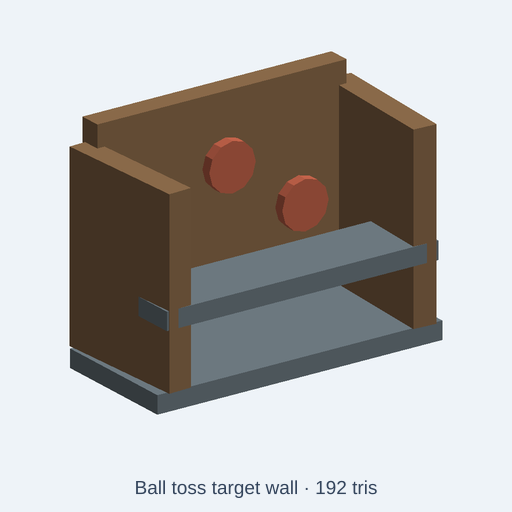
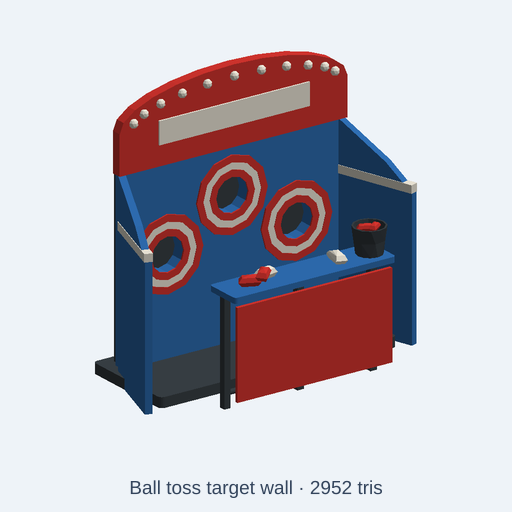
wip(assets): round 18 [claude]
Auto-committed by run-codex-lane.sh so a dying loop can never lose work
again. Squash or amend before review.

diff --git a/catalog/kits/amusement-park/balloon-dart-gallery.kcad.ts b/catalog/kits/amusement-park/balloon-dart-gallery.kcad.ts
@@ -1,69 +1,122 @@
-// Balloon dart gallery: Counter-height dart game with a pegged balloon wall, side dividers, and an overhead net frame.
+// SPDX-License-Identifier: CC0-1.0
+// Balloon dart gallery: the midway booth where you throw darts to pop
+// balloons pinned to a cork wall.
+// What makes it a balloon dart game rather than a counter: a cork back wall
+// covered in a grid of inflated balloons, with darts already stuck in the
+// cork between them; a striped throw counter holding a cup of darts; plush
+// prizes hanging along the side walls; and a sloped striped canopy with a
+// pennant valance.
+// Generic visualization geometry at about real size (2.3 m wide, 2.5 m to
+// the canopy), millimetres, Z up, guest face on -Y, standing on z = 0.
 meta({
   name: "balloon-dart-gallery",
   license: "CC0-1.0",
   title: "Balloon dart gallery",
-  description: "Counter-height dart game with a pegged balloon wall, side dividers, and an overhead net frame. Controls: overall scale, paintedTimber, steel, rubber; festival and twilight material presets.",
-  tags: ["amusement park", "theme park", "guest experience", "low poly", "CC0", "midway games"],
+  description: "Midway balloon dart booth at about real size: a cork back wall covered in a five-by-four grid of balloons with darts stuck in the cork, a striped throw counter with a cup of darts, plush prizes hanging on the side walls, and a sloped striped canopy with a pennant valance. Material controls: painted timber, cork, balloon latex, canvas. Festival, twilight and pastel presets.",
+  tags: ["balloon dart", "dart game", "balloon pop", "carnival booth", "midway game", "prize booth", "amusement park", "theme park", "guest experience", "low poly", "CC0", "midway games"],
   kit: "amusement-park",
   category: "prop",
   origin: "base",
   compat: ["amusement-park", "theme-park", "midway", "visitor-attraction"],
-  triangleBudget: 1800,
+  triangleBudget: 9000,
 });
 
 const scale = param("scale", 1, { label: "Overall scale", min: 0.65, max: 1.35, step: 0.05 });
-const paintedTimber = param("paintedTimber", "#92704e", { label: "Painted timber" });
-const steel = param("steel", "#738087", { label: "Painted steel" });
-const rubber = param("rubber", "#292f33", { label: "Rubber" });
+const timber = param("timber", "#7a3f8f", { label: "Painted timber booth and counter" });
+const cork = param("cork", "#b98a5a", { label: "Cork back wall" });
+const latex = param("latex", "#e23b3b", { label: "Balloon latex, canopy stripe and prizes" });
+const canvas = param("canvas", "#fbf4e2", { label: "Canvas stripe, light balloons and dart flights" });
 
 presets({
-  festival: {
-    "paintedTimber": "#be8a4e",
-    "steel": "#9da3a0",
-    "rubber": "#3c4245"
-},
-  twilight: {
-    "paintedTimber": "#5e7181",
-    "steel": "#4f626c",
-    "rubber": "#20262a"
-},
+  festival: { timber: "#1f7fc4", cork: "#c49a64", latex: "#f2b51c", canvas: "#fffdf4" },
+  twilight: { timber: "#2b2f55", cork: "#8a6a4c", latex: "#d1468c", canvas: "#d9e4f5" },
+  pastel: { timber: "#8fc9c2", cork: "#d6b88f", latex: "#f29bb5", canvas: "#fff7e0" },
 });
-const originOffsetMm = 0;
+
 const p = assembly("balloon-dart-gallery");
+const add = (name: string, shape: Shape) => p.part(name, shape.scale(scale));
 
-const place = (name: string, shape: Shape, at: [number, number, number]) => {
-  const positioned = shape.translate(at[0], at[1], at[2] + originOffsetMm).scale(scale);
-  if (["backboard", "balloon-0", "balloon-1", "balloon-2", "balloon-3", "balloon-4", "balloon-5", "balloon-6", "balloon-7", "counter", "side-divider-0", "side-divider-1"].includes(name)) p.part(name, positioned.color(paintedTimber));
-  else if (["net-header"].includes(name)) p.part(name, positioned.color(rubber));
-  else if (["net-post-0", "net-post-1", "net-post-2", "net-post-3"].includes(name)) p.part(name, positioned.color(steel));
-  else p.part(name, positioned.color(paintedTimber));
+const rr = (l: number, w: number, r: number) =>
+  filletPolygon([[-l / 2, -w / 2], [l / 2, -w / 2], [l / 2, w / 2], [-l / 2, w / 2]], r, { segments: 6 });
+const plan = (pts, z0: number, h: number) => extrudePolygon(pts, h).translate(0, 0, z0);
+// Outline drawn in (x, z) and extruded t thick toward +Y from y0.
+const face = (pts, t: number, y0: number) => extrudePolygon(pts, t).rotateX(90).translate(0, y0 + t, 0);
+// Outline drawn in (y, z) and extruded t thick along X, centred on x = 0.
+const profileYZ = (pts, t: number) => extrudePolygon(pts, t).rotateX(90).translate(0, t / 2, 0).rotateZ(90);
+const turned = (pts) => {
+  let pb = path().moveTo(pts[0][0], pts[0][1]);
+  for (const [r, z] of pts.slice(1)) pb = pb.lineTo(r, z);
+  return pb.close().revolve();
 };
-const B = (name: string, size: [number, number, number], at: [number, number, number], rotation?: [number, number, number]) => {
-  let shape = box(size[0], size[1], size[2], true);
-  if (rotation?.[0]) shape = shape.rotate([1, 0, 0], rotation[0]);
-  if (rotation?.[1]) shape = shape.rotate([0, 1, 0], rotation[1]);
-  if (rotation?.[2]) shape = shape.rotate([0, 0, 1], rotation[2]);
-  place(name, shape, at);
-};
-const S = (name: string, radius: number, at: [number, number, number]) => place(name, sphere(radius), at);
 
-B("backboard", [1950, 120, 1380], [0, 450, 1090]);
-B("counter", [2100, 780, 170], [0, 0, 820]);
-S("balloon-0", 115, [-700, 360, 700]);
-S("balloon-1", 115, [-350, 360, 920]);
-S("balloon-2", 115, [0, 360, 690]);
-S("balloon-3", 115, [350, 360, 930]);
-S("balloon-4", 115, [700, 360, 710]);
-S("balloon-5", 115, [-525, 360, 1190]);
-S("balloon-6", 115, [175, 360, 1180]);
-S("balloon-7", 115, [560, 360, 1120]);
-B("side-divider-0", [100, 1120, 1500], [-1070, 370, 750]);
-B("side-divider-1", [100, 1120, 1500], [1070, 370, 750]);
-B("net-post-0", [70, 70, 2200], [-1050, 430, 1100]);
-B("net-post-1", [70, 70, 2200], [1050, 430, 1100]);
-B("net-post-2", [70, 70, 2200], [-1050, -500, 1100]);
-B("net-post-3", [70, 70, 2200], [1050, -500, 1100]);
-B("net-header", [2200, 1050, 80], [0, 0, 2220]);
+const W = 2300;
+const BACK = 420;
+const FRONT = -700;
+const EAVE_B = 2500;
+const EAVE_F = 2250;
+
+// Floor plinth, cork back wall and its timber frame.
+add("floor", plan(rr(W, BACK - FRONT + 60, 20), 0, 80).translate(0, (BACK + FRONT) / 2 + 30, 0).color(timber));
+add("back-frame", face([[-W / 2, 80], [W / 2, 80], [W / 2, EAVE_B], [-W / 2, EAVE_B]], 60, BACK + 40).color(timber));
+add("cork-wall", face([[-W / 2 + 80, 700], [W / 2 - 80, 700], [W / 2 - 80, 2200], [-W / 2 + 80, 2200]], 40, BACK).color(cork));
+
+// Five-by-four grid of balloons on the cork, with darts stuck between them.
+for (let c = 0; c < 5; c++)
+  for (let r = 0; r < 4; r++) {
+    const x = -800 + c * 400 + (r % 2 ? 80 : -40);
+    const z = 860 + r * 350;
+    add(`balloon-${c}-${r}`, sphere(120).scale([1, 0.85, 1.2]).translate(x, BACK - 95, z).color((c + r) % 3 === 1 ? canvas : latex));
+    add(`balloon-knot-${c}-${r}`, turned([[0, 0], [24, 0], [6, 40], [0, 40]]).rotateX(180).translate(x, BACK - 60, z - 140).color(latex));
+  }
+[[-600, 1030], [210, 1380], [-180, 1720], [590, 1070]].forEach(([x, z], i) => {
+  add(`stuck-dart-${i}`, cylinder(170, 10, 8).rotateX(90).rotateZ(i * 7 - 10).translate(x, BACK, z).color(timber));
+  add(`stuck-dart-flight-${i}`, box(70, 90, 4, true).rotateZ(i * 7 - 10).translate(x + 12, BACK - 170, z).color(canvas));
+  add(`stuck-dart-flight-v-${i}`, box(4, 90, 70, true).rotateZ(i * 7 - 10).translate(x + 12, BACK - 170, z).color(canvas));
+});
+
+// Side walls with a shaped front edge, carrying hanging plush prizes.
+for (const sx of [-1, 1]) {
+  const s = sx > 0 ? "r" : "l";
+  const wall = profileYZ([[BACK + 100, 80], [FRONT, 80], [FRONT, 1060], [FRONT + 220, 1260], [FRONT + 220, EAVE_F + 40], [BACK + 100, EAVE_B]], 70);
+  add(`side-wall-${s}`, wall.translate(sx * (W / 2 - 35), 0, 0).color(timber));
+  add(`prize-rail-${s}`, cylinder(900, 18, 10).rotateX(90).translate(sx * (W / 2 - 110), BACK - 40, 2150).color(canvas));
+  for (let k = 0; k < 3; k++) {
+    const y = BACK - 180 - k * 280;
+    const z = 1780 - (k % 2) * 90;
+    add(`prize-string-${s}-${k}`, cylinder(2150 - z - 180, 6, 6).translate(sx * (W / 2 - 110), y, z + 180).color(canvas));
+    add(`prize-body-${s}-${k}`, sphere(110).scale([1, 0.85, 1.15]).translate(sx * (W / 2 - 150), y, z).color(k % 2 ? canvas : latex));
+    add(`prize-head-${s}-${k}`, sphere(80).translate(sx * (W / 2 - 150), y, z + 150).color(k % 2 ? latex : canvas));
+    for (const e of [-1, 1]) add(`prize-ear-${s}-${k}-${e}`, sphere(32).translate(sx * (W / 2 - 150), y + e * 55, z + 225).color(k % 2 ? latex : canvas));
+  }
+}
+
+// Throw counter with a striped front and a cup of darts.
+const CT = 1000;
+add("counter-top", plan(rr(W - 60, 340, 24), CT, 50).translate(0, FRONT + 140, 0).color(timber));
+const NS = 7;
+const sw = (W - 200) / NS;
+for (let k = 0; k < NS; k++) {
+  const x0 = -(W - 200) / 2 + k * sw;
+  add(`counter-stripe-${k}`, face([[x0, 80], [x0 + sw, 80], [x0 + sw, CT], [x0, CT]], 30, FRONT).color(k % 2 ? canvas : latex));
+}
+add("dart-cup", turned([[0, 0], [70, 0], [80, 170], [68, 170], [60, 15], [0, 15]]).translate(640, FRONT + 140, CT + 50).color(canvas));
+for (const [i, a] of [-12, 0, 12].entries()) {
+  add(`cup-dart-${i}`, cylinder(240, 9, 8).rotateY(a).translate(640 + i * 18 - 18, FRONT + 140, CT + 70).color(timber));
+  add(`cup-flight-${i}`, box(60, 4, 70, true).rotateY(a).translate(640 + i * 18 - 18 + Math.sin((a * Math.PI) / 180) * 260, FRONT + 140, CT + 70 + 260).color(latex));
+}
+
+// Sloped striped canopy with a pennant valance on the guest side.
+const DEPTH = BACK + 140 - (FRONT - 120);
+const tilt = (Math.atan2(EAVE_B - EAVE_F, DEPTH) * 180) / Math.PI;
+const NC = 8;
+const cw = (W + 160) / NC;
+for (let k = 0; k < NC; k++) {
+  const x = -(W + 160) / 2 + cw * (k + 0.5);
+  add(`canopy-stripe-${k}`, box(cw, DEPTH / Math.cos((tilt * Math.PI) / 180), 30, true).rotateX(tilt).translate(x, (BACK + 140 + FRONT - 120) / 2, (EAVE_B + EAVE_F) / 2 + 40).color(k % 2 ? canvas : latex));
+}
+for (let k = 0; k < NC; k++) {
+  const x = -(W + 160) / 2 + cw * k;
+  add(`pennant-${k}`, face([[x, 0], [x + cw, 0], [x + cw / 2, -200]], 12, FRONT - 135).translate(0, 0, EAVE_F + 30).color(k % 2 ? latex : canvas));
+}
 
 return p.model();

diff --git a/catalog/kits/amusement-park/ball-toss-target-wall.kcad.ts b/catalog/kits/amusement-park/ball-toss-target-wall.kcad.ts
@@ -1,66 +1,113 @@
-// Ball toss target wall: Three-bay beanbag toss stand with stepped target openings, side braces, and a front counter shelf.
+// SPDX-License-Identifier: CC0-1.0
+// Ball toss target wall: the midway beanbag game where you throw through a
+// painted bullseye to win.
+// What makes it a ball toss rather than a painted wall: three real holes cut
+// through the target board, each ringed by red-and-white bullseye bands with
+// a dark catch bag behind it; an arched marquee header with lamp bulbs; side
+// wings that funnel throws into the board; and a throw counter with
+// beanbags and a bag bucket set out in front.
+// Generic visualization geometry at about real size (2.6 m across the
+// wings, 2.4 m to the marquee top), millimetres, Z up, guest face on -Y,
+// standing on z = 0.
 meta({
   name: "ball-toss-target-wall",
   license: "CC0-1.0",
   title: "Ball toss target wall",
-  description: "Three-bay beanbag toss stand with stepped target openings, side braces, and a front counter shelf. Controls: overall scale, paintedTimber, steel, enamel; festival and twilight material presets.",
-  tags: ["amusement park", "theme park", "guest experience", "low poly", "CC0", "midway games"],
+  description: "Midway beanbag toss game at about real size: a target board with three holes cut through it, each ringed by bullseye bands with a dark catch bag behind, an arched marquee header with lamp bulbs, angled side wings, and a throw counter set with beanbags and a bag bucket. Material controls: painted timber, target enamel, canvas, painted steel. Festival, twilight and vintage presets.",
+  tags: ["ball toss", "beanbag toss", "bullseye", "target board", "midway game", "carnival game", "amusement park", "theme park", "guest experience", "low poly", "CC0", "midway games"],
   kit: "amusement-park",
   category: "prop",
   origin: "base",
   compat: ["amusement-park", "theme-park", "midway", "visitor-attraction"],
-  triangleBudget: 1800,
+  triangleBudget: 4000,
 });
 
 const scale = param("scale", 1, { label: "Overall scale", min: 0.65, max: 1.35, step: 0.05 });
-const paintedTimber = param("paintedTimber", "#92704e", { label: "Painted timber" });
-const steel = param("steel", "#738087", { label: "Painted steel" });
-const enamel = param("enamel", "#cc684e", { label: "Baked enamel" });
+const timber = param("timber", "#2f6fb5", { label: "Painted timber board, wings and counter" });
+const enamel = param("enamel", "#d8352f", { label: "Target enamel bands, marquee and beanbags" });
+const canvas = param("canvas", "#f5efe0", { label: "Canvas bands, lettering strip and bulbs" });
+const steel = param("steel", "#3a4146", { label: "Painted steel frame and catch bags" });
 
 presets({
-  festival: {
-    "paintedTimber": "#be8a4e",
-    "steel": "#9da3a0",
-    "enamel": "#edb34d"
-},
-  twilight: {
-    "paintedTimber": "#5e7181",
-    "steel": "#4f626c",
-    "enamel": "#385b81"
-},
+  festival: { timber: "#2b9a5a", enamel: "#f2b632", canvas: "#fffaf0", steel: "#2d3236" },
+  twilight: { timber: "#3b3f73", enamel: "#c2457f", canvas: "#e4dcf2", steel: "#22262b" },
+  vintage: { timber: "#8a5a34", enamel: "#b8452f", canvas: "#efe1c0", steel: "#4b4038" },
 });
-const originOffsetMm = 0;
+
 const p = assembly("ball-toss-target-wall");
+const add = (name: string, shape: Shape) => p.part(name, shape.scale(scale));
 
-const place = (name: string, shape: Shape, at: [number, number, number]) => {
-  const positioned = shape.translate(at[0], at[1], at[2] + originOffsetMm).scale(scale);
-  if (["backboard", "side-left", "side-right"].includes(name)) p.part(name, positioned.color(paintedTimber));
-  else if (["target-ring-0", "target-ring-1", "target-ring-2"].includes(name)) p.part(name, positioned.color(enamel));
-  else if (["base-foot", "counter-shelf"].includes(name)) p.part(name, positioned.color(steel));
-  else p.part(name, positioned.color(paintedTimber));
+const rr = (l: number, w: number, r: number) =>
+  filletPolygon([[-l / 2, -w / 2], [l / 2, -w / 2], [l / 2, w / 2], [-l / 2, w / 2]], r, { segments: 6 });
+const plan = (pts, z0: number, h: number) => extrudePolygon(pts, h).translate(0, 0, z0);
+// Outline drawn in (x, z) and extruded t thick toward +Y from y0.
+const face = (pts, t: number, y0: number) => extrudePolygon(pts, t).rotateX(90).translate(0, y0 + t, 0);
+// Outline drawn in (y, z) and extruded t thick along X, centred on x = 0.
+const profileYZ = (pts, t: number) => extrudePolygon(pts, t).rotateX(90).translate(0, t / 2, 0).rotateZ(90);
+const turned = (pts) => {
+  let pb = path().moveTo(pts[0][0], pts[0][1]);
+  for (const [r, z] of pts.slice(1)) pb = pb.lineTo(r, z);
+  return pb.close().revolve();
 };
-const B = (name: string, size: [number, number, number], at: [number, number, number], rotation?: [number, number, number]) => {
-  let shape = box(size[0], size[1], size[2], true);
-  if (rotation?.[0]) shape = shape.rotate([1, 0, 0], rotation[0]);
-  if (rotation?.[1]) shape = shape.rotate([0, 1, 0], rotation[1]);
-  if (rotation?.[2]) shape = shape.rotate([0, 0, 1], rotation[2]);
-  place(name, shape, at);
-};
-const C = (name: string, height: number, radius: number, at: [number, number, number], rotation: [number, number, number] = [0, 0, 0], segments = 10) => {
-  let shape = cylinder(height, radius, segments);
-  if (rotation[0]) shape = shape.rotate([1, 0, 0], rotation[0]);
-  if (rotation[1]) shape = shape.rotate([0, 1, 0], rotation[1]);
-  if (rotation[2]) shape = shape.rotate([0, 0, 1], rotation[2]);
-  place(name, shape, at);
-};
+// Flat ring in the XZ plane, t thick toward +Y from y0.
+const ring = (R: number, r: number, t: number, y0: number) =>
+  cylinder(t, R, 32).subtract(cylinder(t + 40, r, 32).translate(0, 0, -20)).rotateX(90).translate(0, y0 + t, 0);
 
-B("backboard", [1880, 160, 1450], [0, 450, 900]);
-B("side-left", [170, 1000, 1330], [-950, 0, 800], [0, 0, 3]);
-B("side-right", [170, 1000, 1330], [950, 0, 800], [0, 0, -3]);
-B("counter-shelf", [2050, 500, 130], [0, -250, 620]);
-C("target-ring-0", 75, 175, [-550, 330, 780], [90, 0, 0], 10);
-C("target-ring-1", 75, 175, [0, 330, 1160], [90, 0, 0], 10);
-C("target-ring-2", 75, 175, [550, 330, 780], [90, 0, 0], 10);
-B("base-foot", [2150, 940, 130], [0, 0, 65]);
+const BW = 2000;
+const BY = 300;
+const BT = 110;
+const HOLES: [number, number][] = [[-600, 950], [0, 1300], [600, 950]];
+const HR = 150;
+
+// Steel ground frame and two rear legs.
+add("ground-frame", plan(rr(BW + 200, 900, 40), 0, 90).translate(0, 120, 0).color(steel));
+for (const x of [-BW / 2 + 80, BW / 2 - 80]) add(`rear-leg-${x < 0 ? "l" : "r"}`, box(80, 80, 1700, true).translate(x, BY + BT + 40, 940).color(steel));
+
+// Target board with three holes cut through it.
+let board = face([[-BW / 2, 90], [BW / 2, 90], [BW / 2, 1750], [-BW / 2, 1750]], BT, BY);
+for (const [x, z] of HOLES) board = board.subtract(cylinder(BT + 200, HR, 32).rotateX(90).translate(x, BY + BT + 100, z));
+add("target-board", board.color(timber));
+
+// Bullseye bands around each hole and a dark catch bag behind it.
+for (const [k, [x, z]] of HOLES.entries()) {
+  add(`band-inner-${k}`, ring(HR + 60, HR, 14, BY - 14).translate(x, 0, z).color(enamel));
+  add(`band-mid-${k}`, ring(HR + 120, HR + 60, 10, BY - 10).translate(x, 0, z).color(canvas));
+  add(`band-outer-${k}`, ring(HR + 180, HR + 120, 14, BY - 14).translate(x, 0, z).color(enamel));
+  add(`catch-bag-${k}`, turned([[0, 0], [HR + 30, 0], [HR + 10, 260], [60, 420], [0, 430]]).rotateX(-90).translate(x, BY + BT, z).color(steel));
+}
+
+// Arched marquee header with a lettering strip and lamp bulbs.
+const ARC = 12;
+const arch: [number, number][] = [[-BW / 2 - 60, 1700], [BW / 2 + 60, 1700]];
+for (let k = 0; k <= ARC; k++) {
+  const a = (k / ARC) * Math.PI;
+  arch.push([Math.cos(a) * (BW / 2 + 60), 2050 + Math.sin(a) * 330]);
+}
+add("marquee", face(arch, 90, BY - 30).color(enamel));
+add("lettering-strip", face([[-700, 1880], [700, 1880], [700, 2080], [-700, 2080]], 14, BY - 44).color(canvas));
+for (let k = 1; k < ARC; k++) {
+  const a = (k / ARC) * Math.PI;
+  add(`bulb-${k}`, sphere(38).translate(Math.cos(a) * (BW / 2 - 30), BY - 40, 2050 + Math.sin(a) * 240).color(canvas));
+}
+
+// Angled side wings with scalloped tops that funnel throws into the board.
+for (const sx of [-1, 1]) {
+  const wing = profileYZ([[0, 0], [-700, 0], [-700, 1250], [-450, 1450], [0, 1700]], 60);
+  add(`side-wing-${sx > 0 ? "r" : "l"}`, wing.rotateZ(sx * 18).translate(sx * (BW / 2 + 20), BY, 0).color(timber));
+  add(`wing-trim-${sx > 0 ? "r" : "l"}`, profileYZ([[0, 1250], [-700, 1250], [-700, 1320], [0, 1320]], 70).rotateZ(sx * 18).translate(sx * (BW / 2 + 20), BY, 0).color(canvas));
+}
+
+// Throw counter on steel brackets, with beanbags and a bag bucket.
+const CY = -650;
+add("counter-top", plan(rr(1500, 340, 30), 940, 50).translate(0, CY, 0).color(timber));
+add("counter-skirt", face([[-720, 120], [720, 120], [720, 900], [-720, 900]], 30, CY - 160).color(enamel));
+for (const x of [-680, 0, 680]) add(`counter-post-${x}`, box(60, 60, 940, true).translate(x, CY + 60, 470).color(steel));
+add("counter-rail", cylinder(1360, 22, 12).rotateY(90).translate(-680, CY + 60, 120).color(steel));
+[[-520, -40], [-330, 20], [-430, -90], [300, -30]].forEach(([x, dy], i) =>
+  add(`beanbag-${i}`, sphere(90).scale([1.2, 1, 0.55]).rotateZ(i * 35).translate(x, CY + dy, 1040 + (i === 2 ? 50 : 0)).color(i % 2 ? canvas : enamel)),
+);
+add("bag-bucket", turned([[0, 0], [110, 0], [140, 230], [125, 230], [98, 20], [0, 20]]).translate(620, CY, 990).color(steel));
+for (const [i, [dx, dy]] of [[-30, 20], [40, -10]].entries())
+  add(`bucket-bag-${i}`, sphere(62).scale([1.2, 1, 0.55]).rotateZ(i * 60).translate(620 + dx, CY + dy, 1200).color(enamel));
 
 return p.model();
